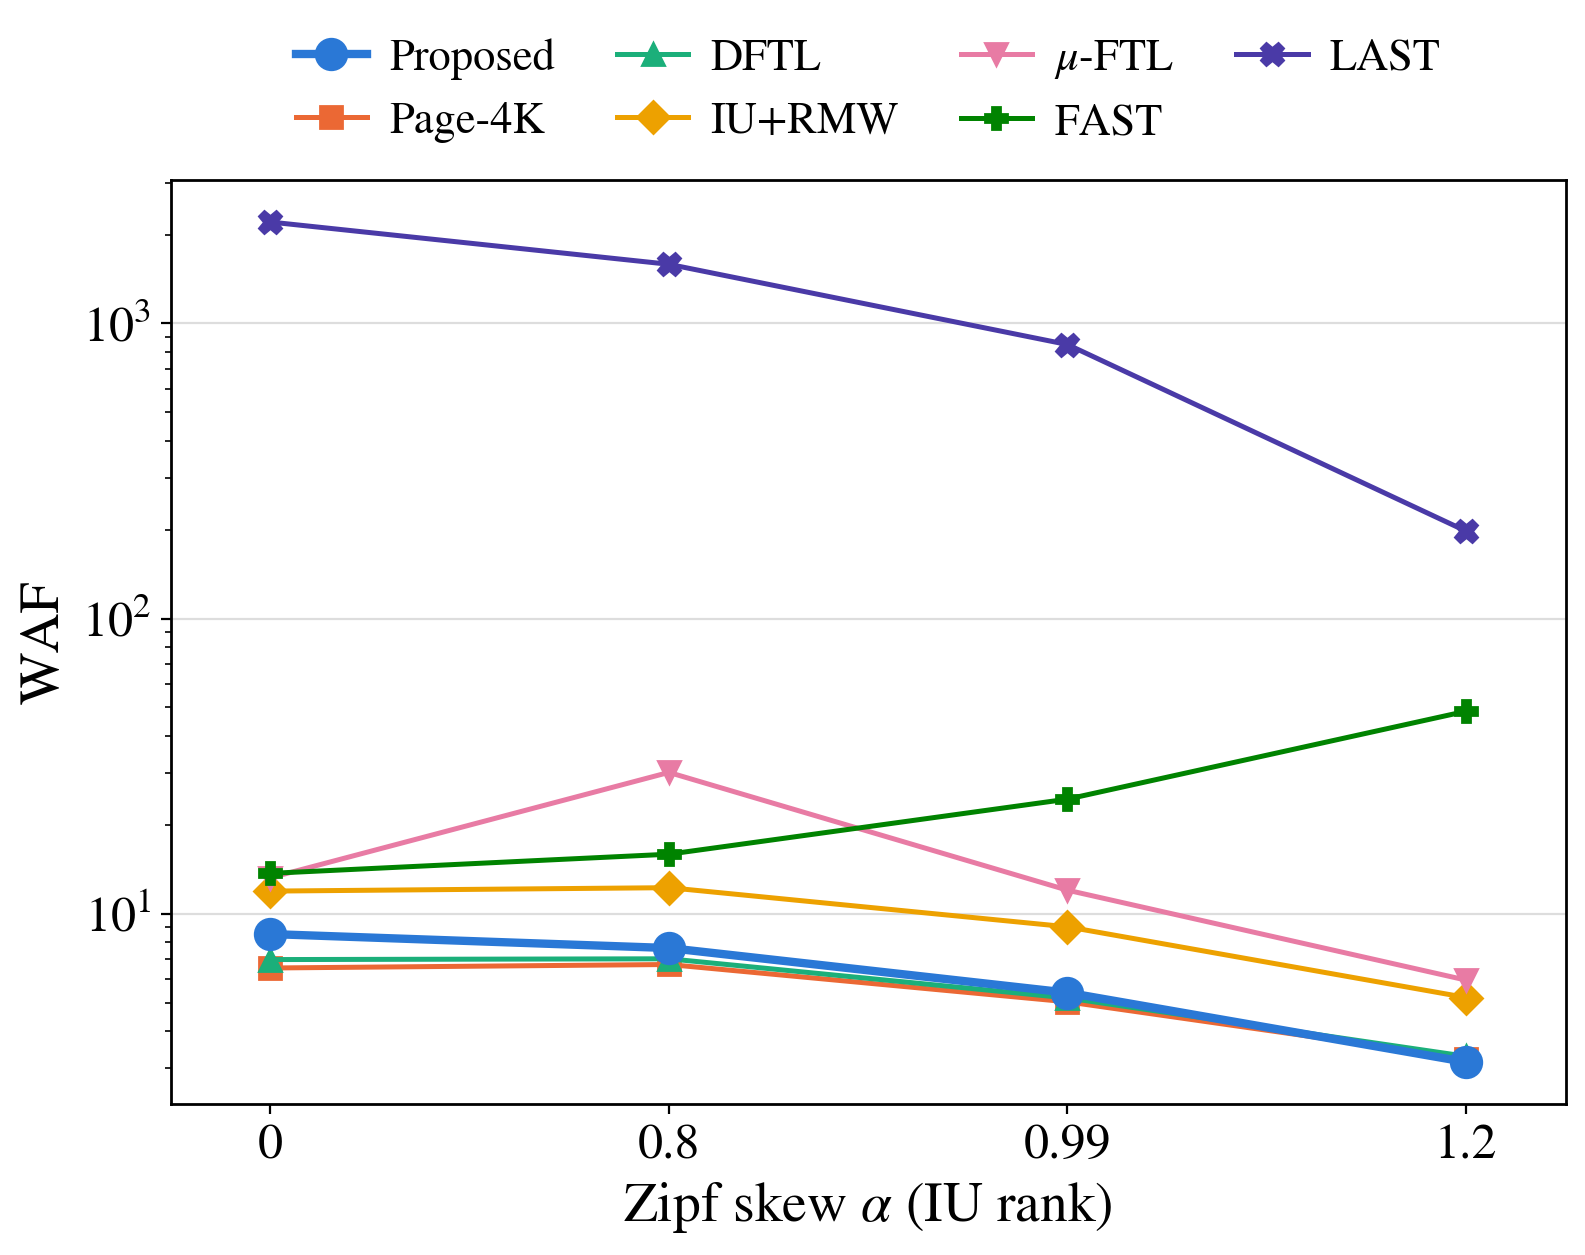
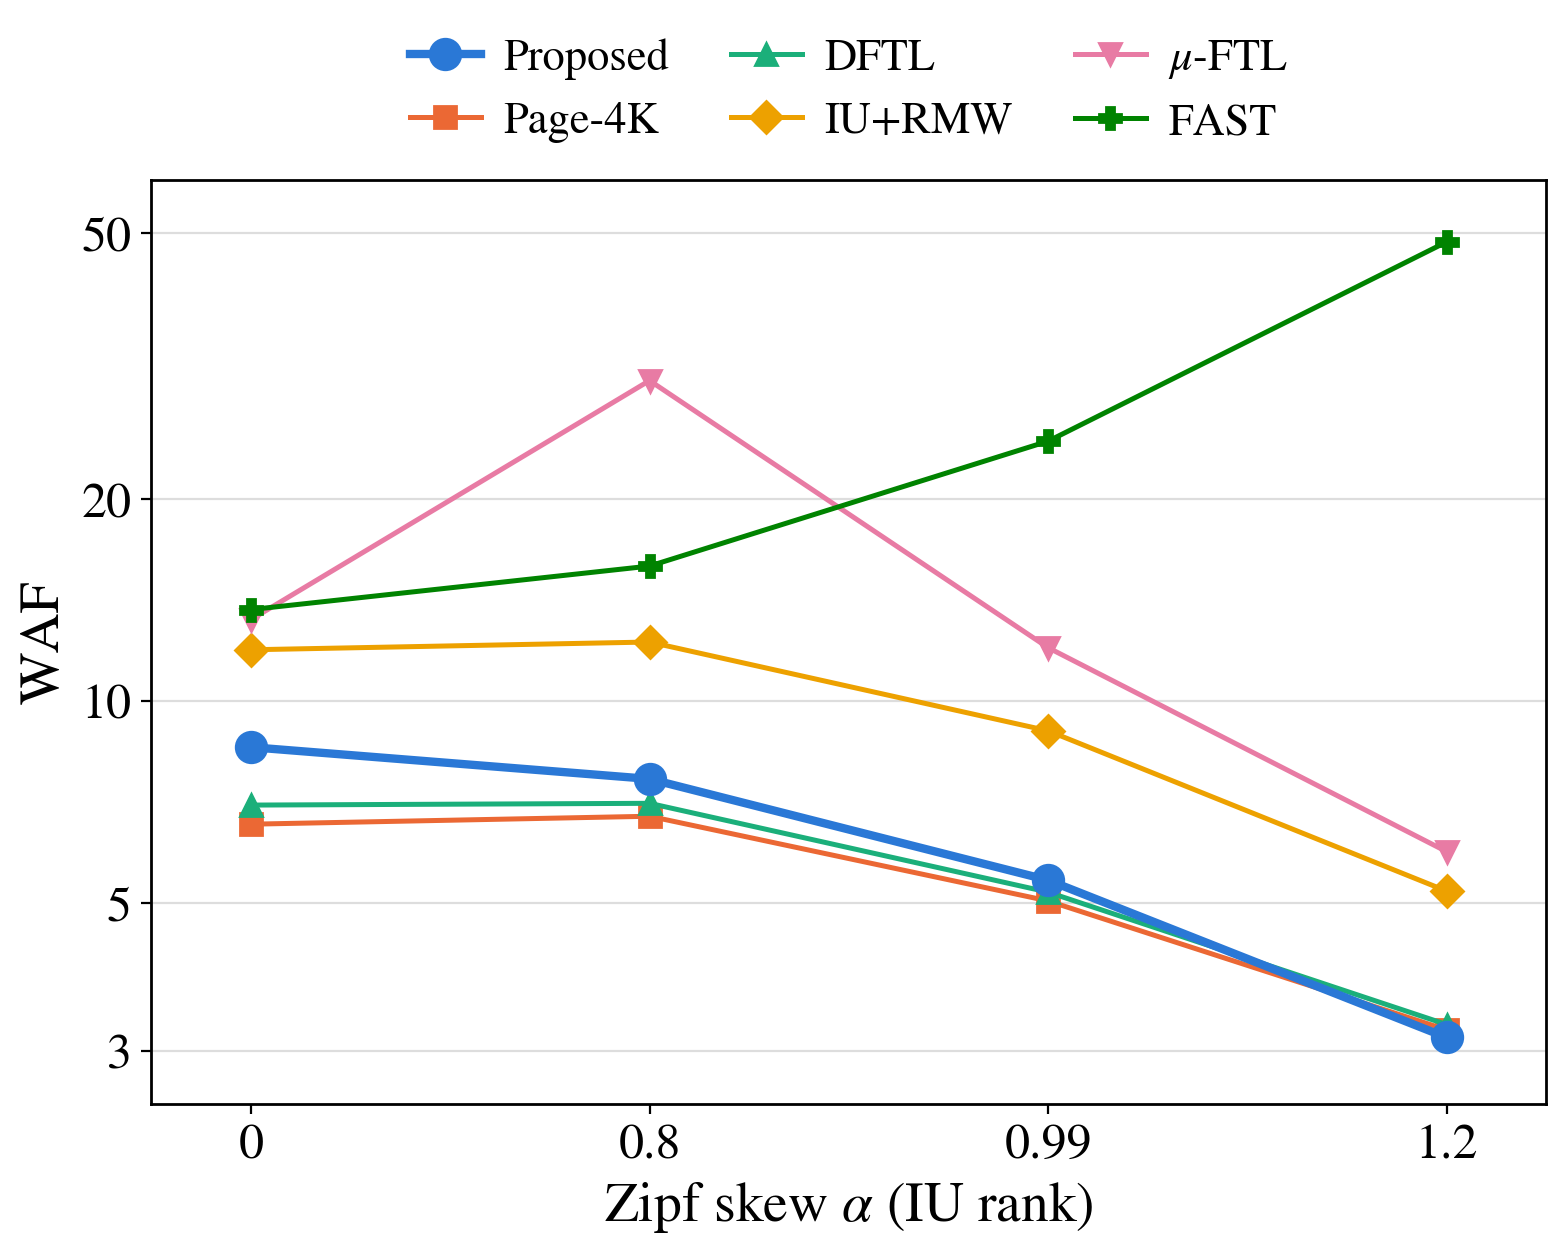
Drop LAST from figures, add readable log-axis ticks

diff --git a/tools/plot.py b/tools/plot.py
@@ -44,6 +44,7 @@ import matplotlib  # noqa: E402
 matplotlib.use("Agg")
 import matplotlib.pyplot as plt  # noqa: E402
 import numpy as np  # noqa: E402
+from matplotlib.ticker import FixedLocator, FuncFormatter  # noqa: E402
 
 ROOT = os.path.dirname(os.path.dirname(os.path.abspath(__file__)))
 OUT = sys.argv[1] if len(sys.argv) > 1 else os.path.join(ROOT, "results", "fig")
@@ -77,8 +78,9 @@ POLICIES = [
     ("iu_rmw_eq",  "IU+RMW",    "#eda100", "D"),
     ("mu_eq",      r"$\mu$-FTL", "#e87ba4", "v"),
     ("fast_eq",    "FAST",      "#008300", "P"),
-    ("last_eq",    "LAST",      "#4a3aa7", "X"),
 ]
+# LAST is excluded from the figures (WAF 150-2200 compresses every other curve);
+# its numbers stay in the result tables.
 
 
 def load(d, name):
@@ -93,6 +95,13 @@ def save(fig, stem):
         fig.savefig(path)
     plt.close(fig)
     print("wrote", os.path.join(OUT, stem) + ".{pdf,png}")
+
+
+def log_ticks(ax, vals):
+    """Readable decimal ticks on a narrow log axis."""
+    ax.yaxis.set_major_locator(FixedLocator(vals))
+    ax.yaxis.set_minor_locator(FixedLocator([]))
+    ax.yaxis.set_major_formatter(FuncFormatter(lambda v, _: f"{v:g}"))
 
 
 def outside_legend(ax, ncol, y=1.02):
@@ -111,6 +120,8 @@ def fig_waf_zipf():
                 markersize=11 if tag == "proposed" else 8,
                 zorder=3 if tag == "proposed" else 2)
     ax.set_yscale("log")
+    log_ticks(ax, [3, 5, 10, 20, 50])
+    ax.set_ylim(2.5, 60)
     ax.set_xticks(range(len(ZS)))
     ax.set_xticklabels([f"{z}" for z in ZS])
     ax.set_xlabel(r"Zipf skew $\alpha$ (IU rank)")
@@ -118,7 +129,7 @@ def fig_waf_zipf():
     ax.set_xlim(-0.25, len(ZS) - 0.75)
     ax.grid(axis="y", color="#dddddd", linewidth=0.8)
     ax.set_axisbelow(True)
-    outside_legend(ax, 4)
+    outside_legend(ax, 3)
     save(fig, "fig1_waf_zipf")
 
 
@@ -140,6 +151,7 @@ def fig_waf_sizes():
                         ha="center", va="bottom", fontsize=15, xytext=(0, 2),
                         textcoords="offset points")
     ax.set_yscale("log")
+    log_ticks(ax, [1, 2, 5, 10, 20, 40])
     ax.set_ylim(1, 48)
     ax.set_xticks(x)
     ax.set_xticklabels([g[0] for g in groups])
@@ -252,7 +264,8 @@ def fig_seq():
             ax.annotate(f"{v:.2f}", (b.get_x() + b.get_width() / 2, v), ha="center",
                         va="bottom", fontsize=15, xytext=(0, 2), textcoords="offset points")
     ax.set_yscale("log")
-    ax.set_ylim(0.8, 40)
+    log_ticks(ax, [1, 2, 5, 10, 20])
+    ax.set_ylim(0.85, 30)
     ax.set_xticks(x)
     ax.set_xticklabels([m[1] for m in mods])
     ax.set_ylabel("WAF")
